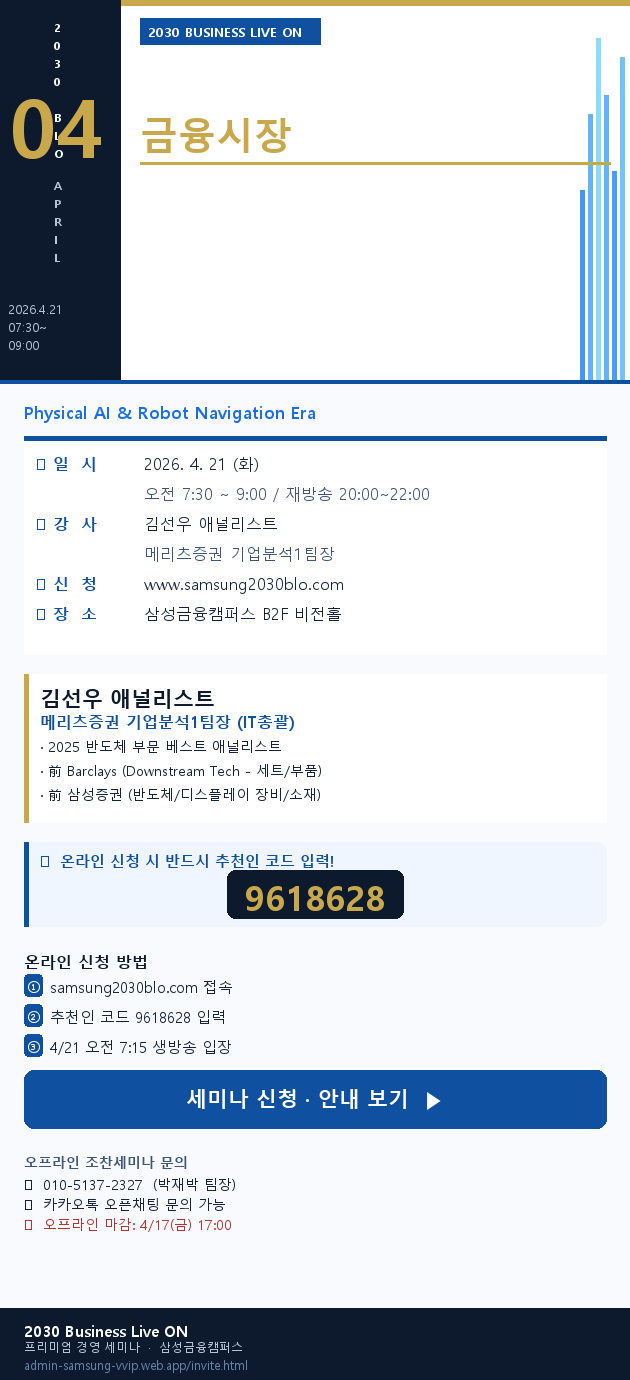
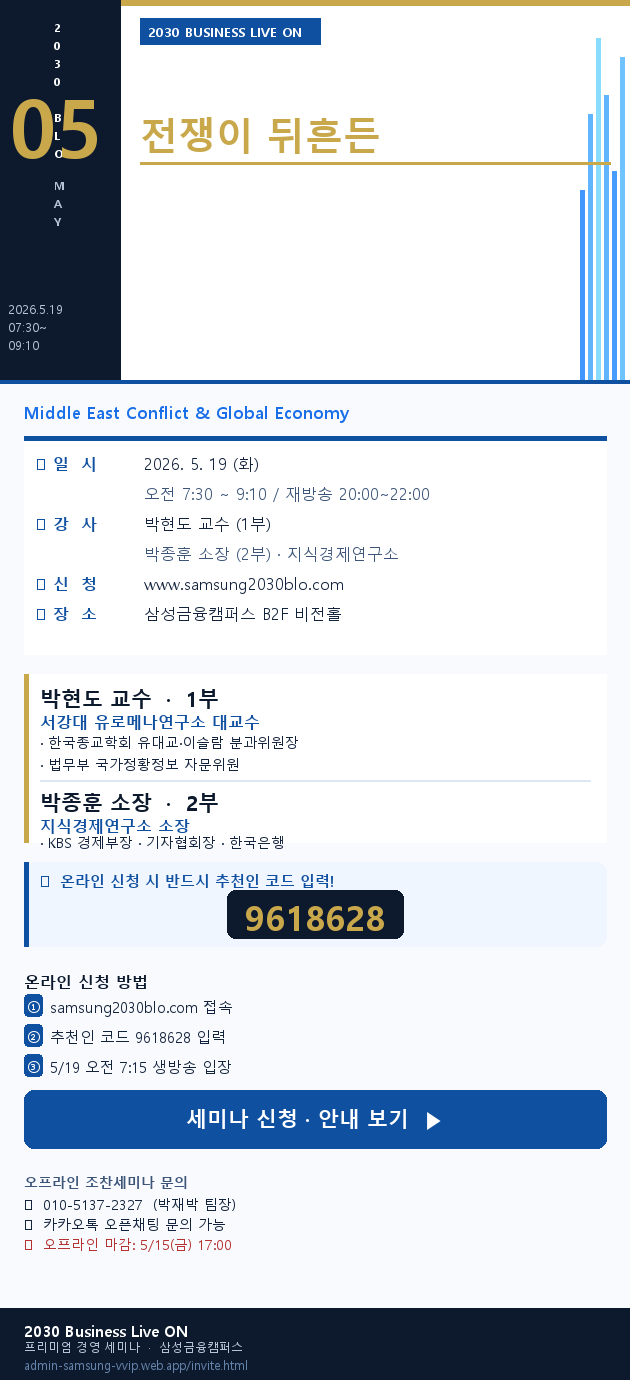
feat: 5월 OG 이미지 갱신 - 중동의 불꽃, 전쟁이 뒤흔든 글로벌 경제 (박현도 교수·박종훈 소장)

diff --git a/scripts/gen_og_image.py b/scripts/gen_og_image.py
@@ -159,7 +159,7 @@ def make_wide_og(out_path):
 
     # 사이드바: 월 숫자
     fnum = load_font(F_BLACK, 110)
-    draw.text((18, 60), "04", font=fnum, fill=GOLD)
+    draw.text((18, 60), "05", font=fnum, fill=GOLD)
 
     fbadge_s = load_font(F_BOLD, 14)
     fbadge_m = load_font(F_BOLD, 13)
@@ -170,7 +170,7 @@ def make_wide_og(out_path):
     # 사이드바: 연도
     fy = load_font(F_REGULAR, 13)
     draw.text((18, 255), "2026", font=fy, fill=MID_GRAY)
-    draw.text((18, 272), "APRIL", font=fy, fill=MID_GRAY)
+    draw.text((18, 272), "MAY", font=fy, fill=MID_GRAY)
 
     # 사이드바: 세로 장식선
     for i, (h_ratio, opacity) in enumerate([(0.55, 80), (0.72, 120), (0.85, 160), (0.65, 100), (0.78, 130)]):
@@ -187,45 +187,45 @@ def make_wide_og(out_path):
 
     # BLO 뱃지
     fbadge = load_font(F_BOLD, 16)
-    badge_text = "2030 BLO  4월 세미나"
+    badge_text = "2030 BLO  5월 세미나"
     bb = draw.textbbox((0,0), badge_text, font=fbadge)
     bw = bb[2] - bb[0] + 28
     draw_rounded_rect(draw, [MX, 20, MX + bw, 48], 4, BLUE)
     draw.text((MX + 14, 26), badge_text, font=fbadge, fill=WHITE)
 
-    # 메인 제목 (Korean font)
-    ft1 = load_font(F_BOLD, 50)
-    ft2 = load_font(F_BOLD, 48)
-    draw.text((MX, 68), "AI 반도체가 주도하는", font=ft1, fill=NAVY)
-    draw.text((MX, 126), "금융시장", font=ft2, fill=NAVY)
+    # 메인 제목
+    ft1 = load_font(F_BOLD, 48)
+    ft2 = load_font(F_BOLD, 46)
+    draw.text((MX, 65),  "중동의 불꽃,", font=ft1, fill=NAVY)
+    draw.text((MX, 118), "전쟁이 뒤흔든 글로벌경제", font=ft2, fill=NAVY)
 
     # 구분선
-    draw.rectangle([MX, 192, MX + 480, 195], fill=GOLD)
+    draw.rectangle([MX, 182, MX + 480, 185], fill=GOLD)
 
     # 부제목
-    fsub = load_font(F_BOLD2, 20)
-    draw.text((MX, 205), "AI Semiconductor & Financial Market", font=fsub, fill=LIGHT_BLUE)
+    fsub = load_font(F_BOLD2, 18)
+    draw.text((MX, 194), "Middle East Conflict & Global Economy", font=fsub, fill=LIGHT_BLUE)
 
     # 이벤트 정보 박스
-    draw.rectangle([MX, 245, MX + 720, 355], fill=LIGHT_GRAY)
-    draw.rectangle([MX, 245, MX + 4, 355], fill=BLUE)  # 왼쪽 강조선
+    draw.rectangle([MX, 235, MX + 720, 355], fill=LIGHT_GRAY)
+    draw.rectangle([MX, 235, MX + 4, 355], fill=BLUE)
 
-    finfo_l = load_font(F_BOLD2, 18)
-    finfo_r = load_font(F_REGULAR, 18)
+    finfo_l = load_font(F_BOLD2, 17)
+    finfo_r = load_font(F_REGULAR, 17)
 
     info_items = [
-        ("📅  일  시", "2026. 4. 21 (화)  오전 7:30 ~ 9:00"),
-        ("🎓  강  사", "김선우 애널리스트  ·  메리츠증권 기업분석1팀장"),
+        ("📅  일  시", "2026. 5. 19 (화)  오전 7:30 ~ 9:10"),
+        ("🎓  강  사", "박현도 교수 (1부)  ·  박종훈 소장 (2부)"),
         ("💻  신  청", "www.samsung2030blo.com"),
     ]
     for i, (label, value) in enumerate(info_items):
-        y = 258 + i * 32
+        y = 248 + i * 34
         draw.text((MX + 18, y), label, font=finfo_l, fill=BLUE)
-        draw.text((MX + 145, y), value, font=finfo_r, fill=TEXT_DARK)
+        draw.text((MX + 140, y), value, font=finfo_r, fill=TEXT_DARK)
 
-    # 하단: 강사 프로필 칩들
-    fchip = load_font(F_REGULAR, 15)
-    chips = ["2025 반도체 베스트 애널리스트", "메리츠증권 기업분석1팀장", "前 Barclays", "前 삼성증권"]
+    # 하단: 강사 칩
+    fchip = load_font(F_REGULAR, 14)
+    chips = ["서강대 유로메나연구소 대교수", "법무부 국가정황정보 자문위원", "지식경제연구소 소장", "KBS 경제부장"]
     cx = MX
     cy = 370
     for chip in chips:
@@ -233,8 +233,8 @@ def make_wide_og(out_path):
         cw = cb[2] - cb[0] + 20
         if cx + cw > W - 20:
             cx = MX
-            cy += 30
-        draw_rounded_rect(draw, [cx, cy, cx+cw, cy+24], 12, (230, 238, 252))
+            cy += 28
+        draw_rounded_rect(draw, [cx, cy, cx+cw, cy+22], 11, (230, 238, 252))
         draw.text((cx+10, cy+4), chip, font=fchip, fill=BLUE)
         cx += cw + 8
 
@@ -313,10 +313,10 @@ def make_vertical_card(out_path):
         draw.text((SIDE//2 - 6, 20 + ci*18), ch, font=fb2, fill=WHITE)
 
     # 사이드바: 큰 숫자
-    draw.text((10, 70), "04", font=fmn, fill=GOLD)
+    draw.text((10, 70), "05", font=fmn, fill=GOLD)
 
     # 사이드바: 연월
-    for ci, ch in enumerate("APRIL"):
+    for ci, ch in enumerate("MAY"):
         draw.text((SIDE//2 - 6, 178 + ci*18), ch, font=fb2, fill=MID_GRAY)
 
     # 오른쪽 헤더 콘텐츠 영역
@@ -326,20 +326,20 @@ def make_vertical_card(out_path):
     draw.rectangle([RX, 18, RX+180, 18+26], fill=BLUE)
     draw.text((RX+8, 22), "2030 BUSINESS LIVE ON", font=fb, fill=WHITE)
 
-    # 제목 (흰 배경 위에 네이비 텍스트 → 절대 잘릴 수 없음)
-    draw.text((RX, 58),  "AI 반도체가 주도하는", font=ft,  fill=WHITE)
-    draw.text((RX, 108), "금융시장",    font=ft2, fill=GOLD)
+    # 제목
+    draw.text((RX, 58),  "중동의 불꽃,", font=ft,  fill=WHITE)
+    draw.text((RX, 108), "전쟁이 뒤흔든",    font=ft2, fill=GOLD)
 
     # 부제목
     draw.rectangle([RX, 162, W-20, 164], fill=GOLD)
-    draw.text((RX, 172), "AI Semiconductor &", font=fsub, fill=WHITE)
-    draw.text((RX, 194), "Financial Market",   font=fsub, fill=WHITE)
+    draw.text((RX, 172), "글로벌경제", font=fsub, fill=WHITE)
+    draw.text((RX, 194), "박현도 교수 · 박종훈 소장", font=fsub, fill=WHITE)
 
     # 날짜/강사 간략 정보 (사이드바 안에)
     fi = load_font(F_REGULAR, 12)
-    draw.text((8, 300), "2026.4.21", font=fi, fill=MID_GRAY)
+    draw.text((8, 300), "2026.5.19", font=fi, fill=MID_GRAY)
     draw.text((8, 318), "07:30~", font=fi, fill=MID_GRAY)
-    draw.text((8, 336), "09:00", font=fi, fill=MID_GRAY)
+    draw.text((8, 336), "09:10", font=fi, fill=MID_GRAY)
 
     # ══ 본문 (y=380~) 흰/연회색 배경 ══
     draw.rectangle([0, 380, W, H], fill=(248, 250, 253))
@@ -350,17 +350,17 @@ def make_vertical_card(out_path):
     y = 400
 
     # 부제목 (본문)
-    draw.text((24, y), "Physical AI & Robot Navigation Era", font=fsub, fill=LIGHT_BLUE)
+    draw.text((24, y), "Middle East Conflict & Global Economy", font=fsub, fill=LIGHT_BLUE)
     y += 36
 
     # 세미나 정보 카드
     draw.rectangle([24, y, W-24, y+218], fill=WHITE)
     draw.rectangle([24, y, W-24, y+4], fill=BLUE)
     card_items = [
-        ("📅 일  시", "2026. 4. 21 (화)"),
-        ("",          "오전 7:30 ~ 9:00 / 재방송 20:00~22:00"),
-        ("🎓 강  사", "김선우 애널리스트"),
-        ("",          "메리츠증권 기업분석1팀장"),
+        ("📅 일  시", "2026. 5. 19 (화)"),
+        ("",          "오전 7:30 ~ 9:10 / 재방송 20:00~22:00"),
+        ("🎓 강  사", "박현도 교수 (1부)"),
+        ("",          "박종훈 소장 (2부) · 지식경제연구소"),
         ("💻 신  청", "www.samsung2030blo.com"),
         ("📍 장  소", "삼성금융캠퍼스 B2F 비전홀"),
     ]
@@ -374,19 +374,23 @@ def make_vertical_card(out_path):
         cy += 30
     y += 228
 
-    # 강사 프로필
+    # 강사 프로필 (2인)
     y += 10
-    draw.rectangle([24, y, W-24, y+148], fill=WHITE)
-    draw.rectangle([24, y, 28, y+148], fill=GOLD)
-    draw.text((40, y+10), "김선우 애널리스트",    font=fprof_t, fill=NAVY)
-    draw.text((40, y+36), "메리츠증권 기업분석1팀장 (IT총괄)", font=fprof_s, fill=BLUE)
+    draw.rectangle([24, y, W-24, y+168], fill=WHITE)
+    draw.rectangle([24, y, 28, y+168], fill=GOLD)
+    draw.text((40, y+10), "박현도 교수  ·  1부", font=fprof_t, fill=NAVY)
+    draw.text((40, y+36), "서강대 유로메나연구소 대교수", font=fprof_s, fill=BLUE)
     for i, item in enumerate([
-        "· 2025 반도체 부문 베스트 애널리스트",
-        "· 前 Barclays (Downstream Tech - 세트/부품)",
-        "· 前 삼성증권 (반도체/디스플레이 장비/소재)",
+        "· 한국종교학회 유대교·이슬람 분과위원장",
+        "· 법무부 국가정황정보 자문위원",
     ]):
-        draw.text((40, y+62+i*24), item, font=fprof_r, fill=TEXT_DARK)
-    y += 158
+        draw.text((40, y+58+i*22), item, font=fprof_r, fill=TEXT_DARK)
+
+    draw.rectangle([40, y+106, W-40, y+107], fill=(220,230,245))
+    draw.text((40, y+114), "박종훈 소장  ·  2부", font=fprof_t, fill=NAVY)
+    draw.text((40, y+140), "지식경제연구소 소장", font=fprof_s, fill=BLUE)
+    draw.text((40, y+158), "· KBS 경제부장 · 기자협회장 · 한국은행", font=fprof_r, fill=TEXT_DARK)
+    y += 178
 
     # 추천인 코드
     y += 10
@@ -406,7 +410,7 @@ def make_vertical_card(out_path):
     for i, (num, step) in enumerate([
         ("①", "samsung2030blo.com 접속"),
         ("②", "추천인 코드 9618628 입력"),
-        ("③", "4/21 오전 7:15 생방송 입장"),
+        ("③", "5/19 오전 7:15 생방송 입장"),
     ]):
         ys = y+24+i*30
         draw_rounded_rect(draw, [24, ys, 42, ys+22], 4, BLUE)
@@ -426,7 +430,7 @@ def make_vertical_card(out_path):
     draw.text((24, y),    "오프라인 조찬세미나 문의",           font=foff_b, fill=TEXT_MID)
     draw.text((24, y+22), "📞  010-5137-2327  (박재박 팀장)",  font=foff,   fill=TEXT_DARK)
     draw.text((24, y+42), "💬  카카오톡 오픈채팅 문의 가능",    font=foff,   fill=TEXT_DARK)
-    draw.text((24, y+62), "📅  오프라인 마감: 4/17(금) 17:00", font=foff,   fill=(180,50,50))
+    draw.text((24, y+62), "📅  오프라인 마감: 5/15(금) 17:00", font=foff,   fill=(180,50,50))
 
     # 하단 바
     draw.rectangle([0, H-72, W, H], fill=NAVY)
